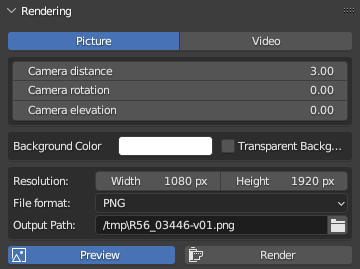
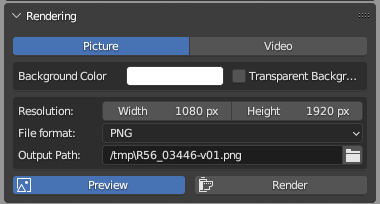
readme update, small ui update

diff --git a/shader_management.py b/shader_management.py
@@ -546,17 +546,13 @@ class ABManagement:
             if a[0] <= b[0]:
                 pos = a_2d + a_to_b_vec * (0.5 - font_perc * 0.5)
                 # pos = a_2d + a_to_b_vec * (font_perc * 0.5)
-                col = (1,0,0,1)
             else:
                 pos = b_2d - a_to_b_vec * (0.5 - font_perc * 0.5)
                 # pos = a_2d - a_to_b_vec * (font_perc * 0.5)
-                col = (0,1,0,1)
-
-
 
             # print(len_vec_a_b, font_dim, font_perc, pos)
 
-            return pos, col
+            return pos
 
         # mapping the 3d point into the camera space
         def img_writing_3d_to_2d(point_3d):
@@ -570,7 +566,8 @@ class ABManagement:
             x_pos = round(co_2d.x * render_size[0])  # / render_size[0]
             y_pos = round(co_2d.y * render_size[1])  # / render_size[1]
 
-            return [x_pos, y_pos]
+            # return [x_pos, y_pos]
+            return mathutils.Vector((x_pos, y_pos))
 
         font_id = 0
         blf.color(font_id, 0, 0, 0, 1)
@@ -583,20 +580,21 @@ class ABManagement:
             cam = scene.camera
 
             # mapping the 3d point into the camera space
-            x_pos, y_pos = img_writing_3d_to_2d(point_3d)
-
             if bpy.context.scene.atom_blend_addon_settings.scaling_cube_rotate_font:
-                co_2d_a = img_writing_3d_to_2d(a)
-                co_2d_b = img_writing_3d_to_2d(b)
+                a_2d = img_writing_3d_to_2d(a)
+                b_2d = img_writing_3d_to_2d(b)
 
-                # pos = calc_pos(co_2d_a, co_2d_b)
+                pos = calc_pos(a_2d, b_2d)
 
-                angle = calc_angle(co_2d_a, co_2d_b)
+                angle = calc_angle(a_2d, b_2d)
+            else:
+                pos = img_writing_3d_to_2d(point_3d)
 
             font_size = context.scene.atom_blend_addon_settings.scaling_cube_font_size
             blf.size(font_id, font_size)
 
-            point_2d = [x_pos, y_pos]
+            # point_2d = [x_pos, y_pos]
+            point_2d = [pos[0], pos[1]]
 
             # point_2d = bpy_extras.view3d_utils.location_3d_to_region_2d(bpy.context.region, bpy.context.space_data.region_3d, tuple_point_3d)
             # ui_scale = bpy.context.preferences.system.ui_scale
@@ -608,14 +606,16 @@ class ABManagement:
                 if a_2d is None or b_2d is None:
                     return
 
-                pos, col = calc_pos(a_2d, b_2d)
+                pos = calc_pos(a_2d, b_2d)
 
                 # a_to_b_vec = b_2d - a_2d
                 # pos = a_2d + a_to_b_vec * 0.3
                 # perc = blf.dimensions
-                blf.color(font_id, col[0], col[1], col[2], 1)
 
                 angle = calc_angle(a_2d, b_2d)
+            else:
+                # pos = img_writing_3d_to_2d(point_3d)
+                pos = bpy_extras.view3d_utils.location_3d_to_region_2d(bpy.context.region, bpy.context.space_data.region_3d, point_3d)
 
             # map font size to viewport
             if context.space_data.region_3d.view_perspective == 'CAMERA': # camera preview

diff --git a/__init__.py b/__init__.py
@@ -104,7 +104,7 @@ classes = (
 
     #ATOMBLEND_PT_panel_general, #ATOMBLEND_PT_panel_dev,
     ATOMBLEND_PT_panel_file, ATOMBLEND_PT_shader_display_settings, ATOMBLEND_PT_scaling_cube, ATOMBLEND_PT_scaling_cube_track_to_center,
-    ATOMBLEND_PT_legend, ATOMBLEND_PT_legend_advanced_settings, ATOMBLEND_PT_camera_settings, ATOMBLEND_PT_camera_settings_track_to_center,
+    ATOMBLEND_PT_legend_basic, ATOMBLEND_PT_legend_advanced_settings, ATOMBLEND_PT_camera_settings, ATOMBLEND_PT_camera_settings_track_to_center,
     ATOMBLEND_PT_rendering,
 
     ATOMBLEND_OT_preview, ATOMBLEND_OT_load_file, ATOMBLEND_OT_load_rrng_file, ATOMBLEND_OT_render, ATOMBLEND_OT_render_frame,

diff --git a/ui.py b/ui.py
@@ -581,8 +581,8 @@ class ATOMBLEND_PT_panel_dev(bpy.types.Panel):
 
 
 # --- legend ---
-class ATOMBLEND_PT_legend(bpy.types.Panel):
-    bl_idname = "ATOMBLEND_PT_legend"
+class ATOMBLEND_PT_legend_basic(bpy.types.Panel):
+    bl_idname = "ATOMBLEND_PT_legend_basic"
     bl_label = "Legend"
     bl_space_type = "VIEW_3D"
     bl_region_type = "UI"
@@ -611,7 +611,7 @@ class ATOMBLEND_PT_legend_advanced_settings(bpy.types.Panel):
     bl_space_type = "VIEW_3D"
     bl_region_type = "UI"
     bl_category = "AtomBlend-II"
-    bl_parent_id = 'ATOMBLEND_PT_legend'
+    bl_parent_id = 'ATOMBLEND_PT_legend_basic'
     bl_options = {'DEFAULT_CLOSED'}
 
     @classmethod

diff --git a/README.md b/README.md
@@ -20,8 +20,10 @@ Go to 3D View, press `N` if the sidebar isn't showing yet, then click `AtomBlend
 Click the file browser icon in the first line to load .pos or .epos files and the icon in the second line to load .rng or .rrng files.<br/>
 <b>Depending on your hardware, file loading may take a while! Try not to click anywhere while loading a file as Blender may crash in that case.</b>
 <br/><br/>
-After loading both the .pos/.epos and .rng/.rrng files, your screen should look similar to this:
+After loading both the .pos/.epos and .rng/.rrng files, your screen should look similar to this:<br/>
 <img src="media/readme-after_file_loading.PNG" width="50%" height="50%"/>
+
+Click `Unload .pos/.epos and .rng/.rrng file` to unload both files.
 
 ### Display settings
 In this menu the appearance of the atom tip can be changed. You can hide specific elements or edit the color or shown percentage of a certain element.
@@ -46,8 +48,12 @@ In this menu you can change the appearance of the scaling cube around the atom t
 `Scaling Cube` - Disable/Enable the scaling cube<br/>
 `RGB / Uniform` - Color the axes differently (x-axis red, y-axis green, z-axis blue) or choose a uniform color.<br/>
 `Line width` - Change the line width of the scaling cube<br/>
+`Scale` - Change the size of the scaling cube regarding the x, y or z axis<br/>
 `Font size` - Change the font size of the measurements of the scaling cube<br/>
 `Align font to axis` - If activated, the font of the scaling cube will be aligned to the axes<br/>
+`Round` - If enabled the measurements of the scaling cube will be rounded by the specified number of `Digits`<br/>
+`Track scaling cube to center of atom tip` - If enabled, the scaling cube is tracked to the center of the atom tip<br/>
+`x/y/z-position` - If the scaling cube is not tracked to the center of the atom tip, the scaling cube can be moved along a certain axis<br/>
 
 ### Legend
 In this menu you can change the appearance of the legend. Either scale the complete legend or make more detailed settings in `Advanced settings`.<br/>
@@ -67,17 +73,23 @@ Open the `Advanced settings` to make detailed settings to the appearance of the 
 `Font color` - Change the font color of the element names<br/>
 `Hide hidden elements in legend` - If activated, the elements you hid in the `Display settings` will also be hidden in the legend<br/>
 
+### Camera settings
+Make camera settings<br/>
+<img src="media/readme-camera_settings.PNG" width="50%" height="50%"/>
+`Camera distance` - Change the distance of the camera to the tip<br/>
+`Camera rotation` - Change the rotation of the tip<br/>
+`Camera elevation` - Change the elevation of the camera<br/>
+`Track camera to center of atom tip` - If enabled, the camera is always tracked to the center of the atom tip<br/>
+`x/z-position` - If the camera is not tracked to the center of the atom tip, the camera position can be moved.
+
 ### Rendering
 In this menu you can first chose between rendering a picture or a video, make render settings and finally render your science.<br/>
 `Picture / Video` - Select if you want to render a picture or video<br/>
 
 #### Picture
-Rendering a picture.<br/>
+Rendering a picture<br/>
 <img src="media/readme-picture_rendering.PNG" width="50%" height="50%"/>
 
-`Camera distance` - Change the distance of the camera to the tip<br/>
-`Camera rotation` - Change the rotation of the tip<br/>
-`Camera elevation` - Change the elevation of the camera<br/>
 `Background color` - Change the background color of the rendering<br/>
 `Transparent Background` - Enable a transparent background. Only available for PNG and TIFF images as JPG images don't support transparency<br/> 
 `File Format` - Select the file format of your rendering. Currently, you can select between PNG, JPG and TIFF<br/>
